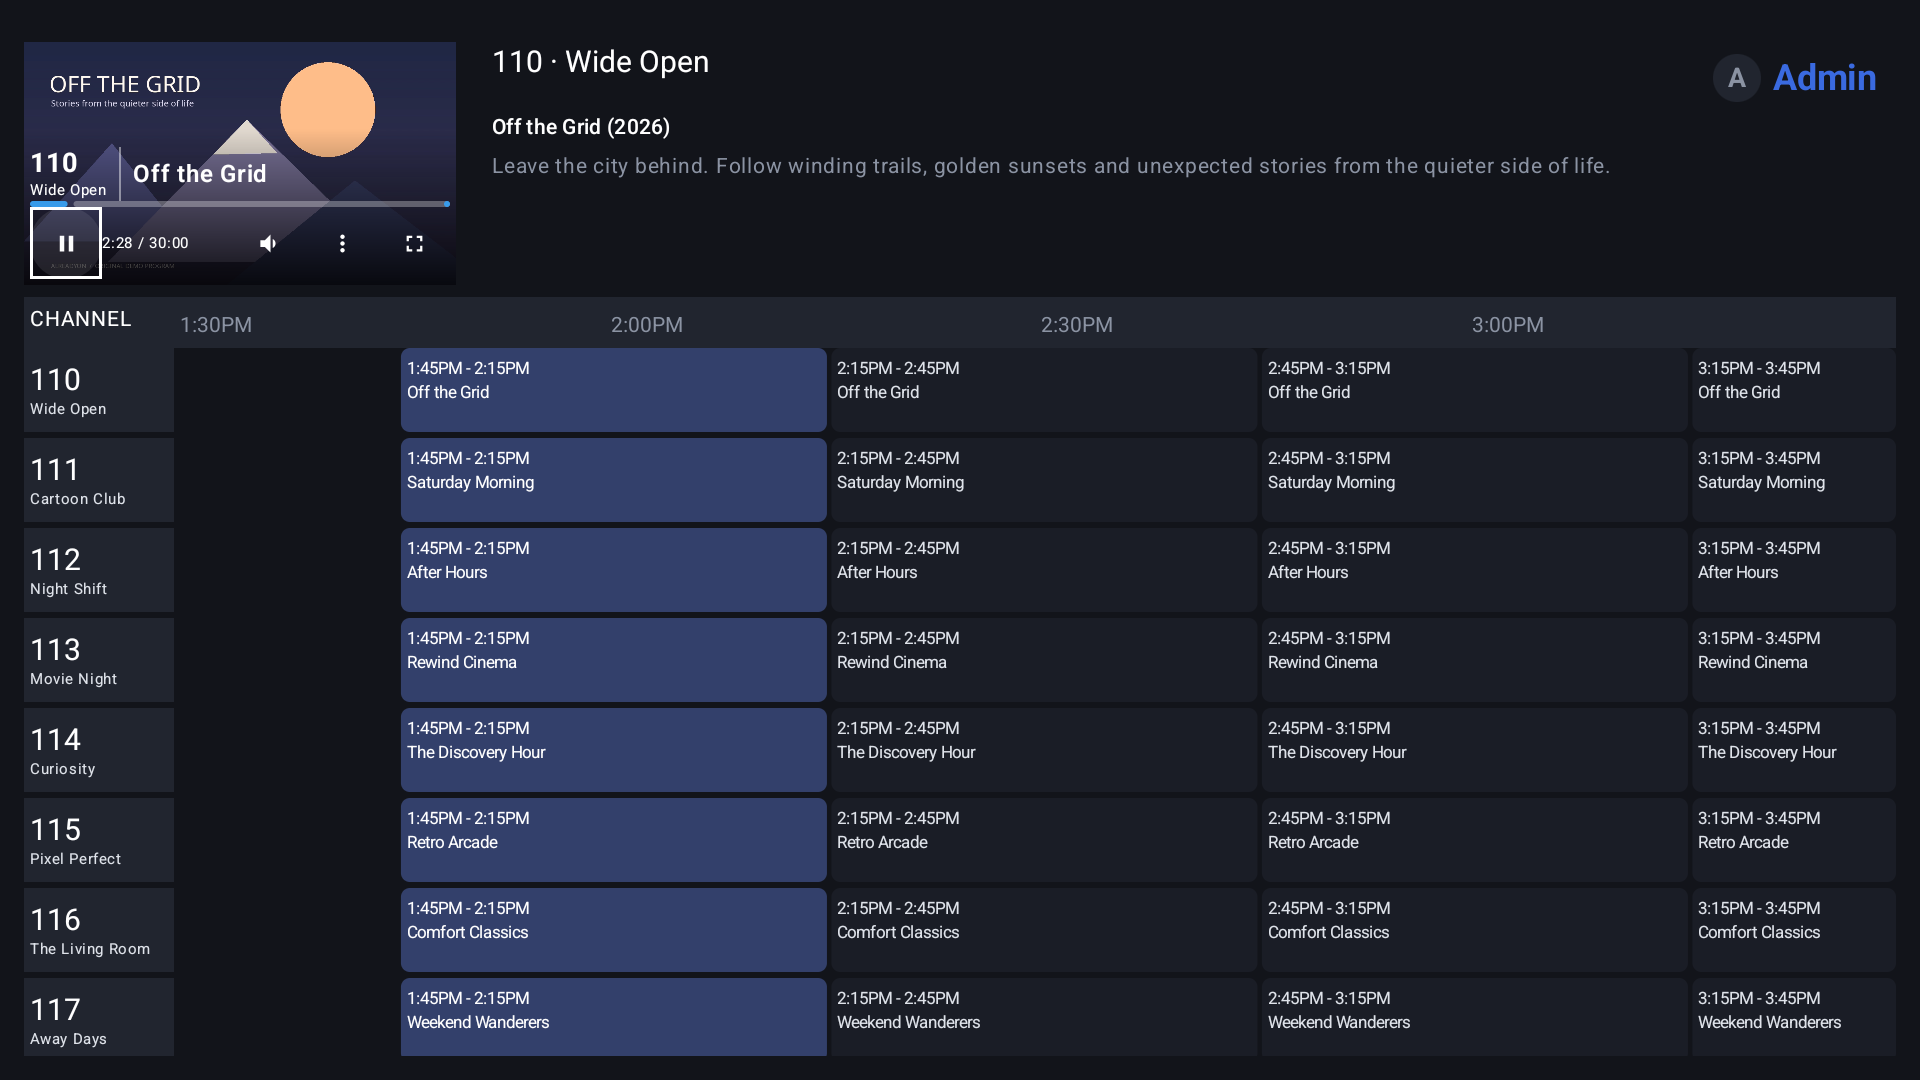
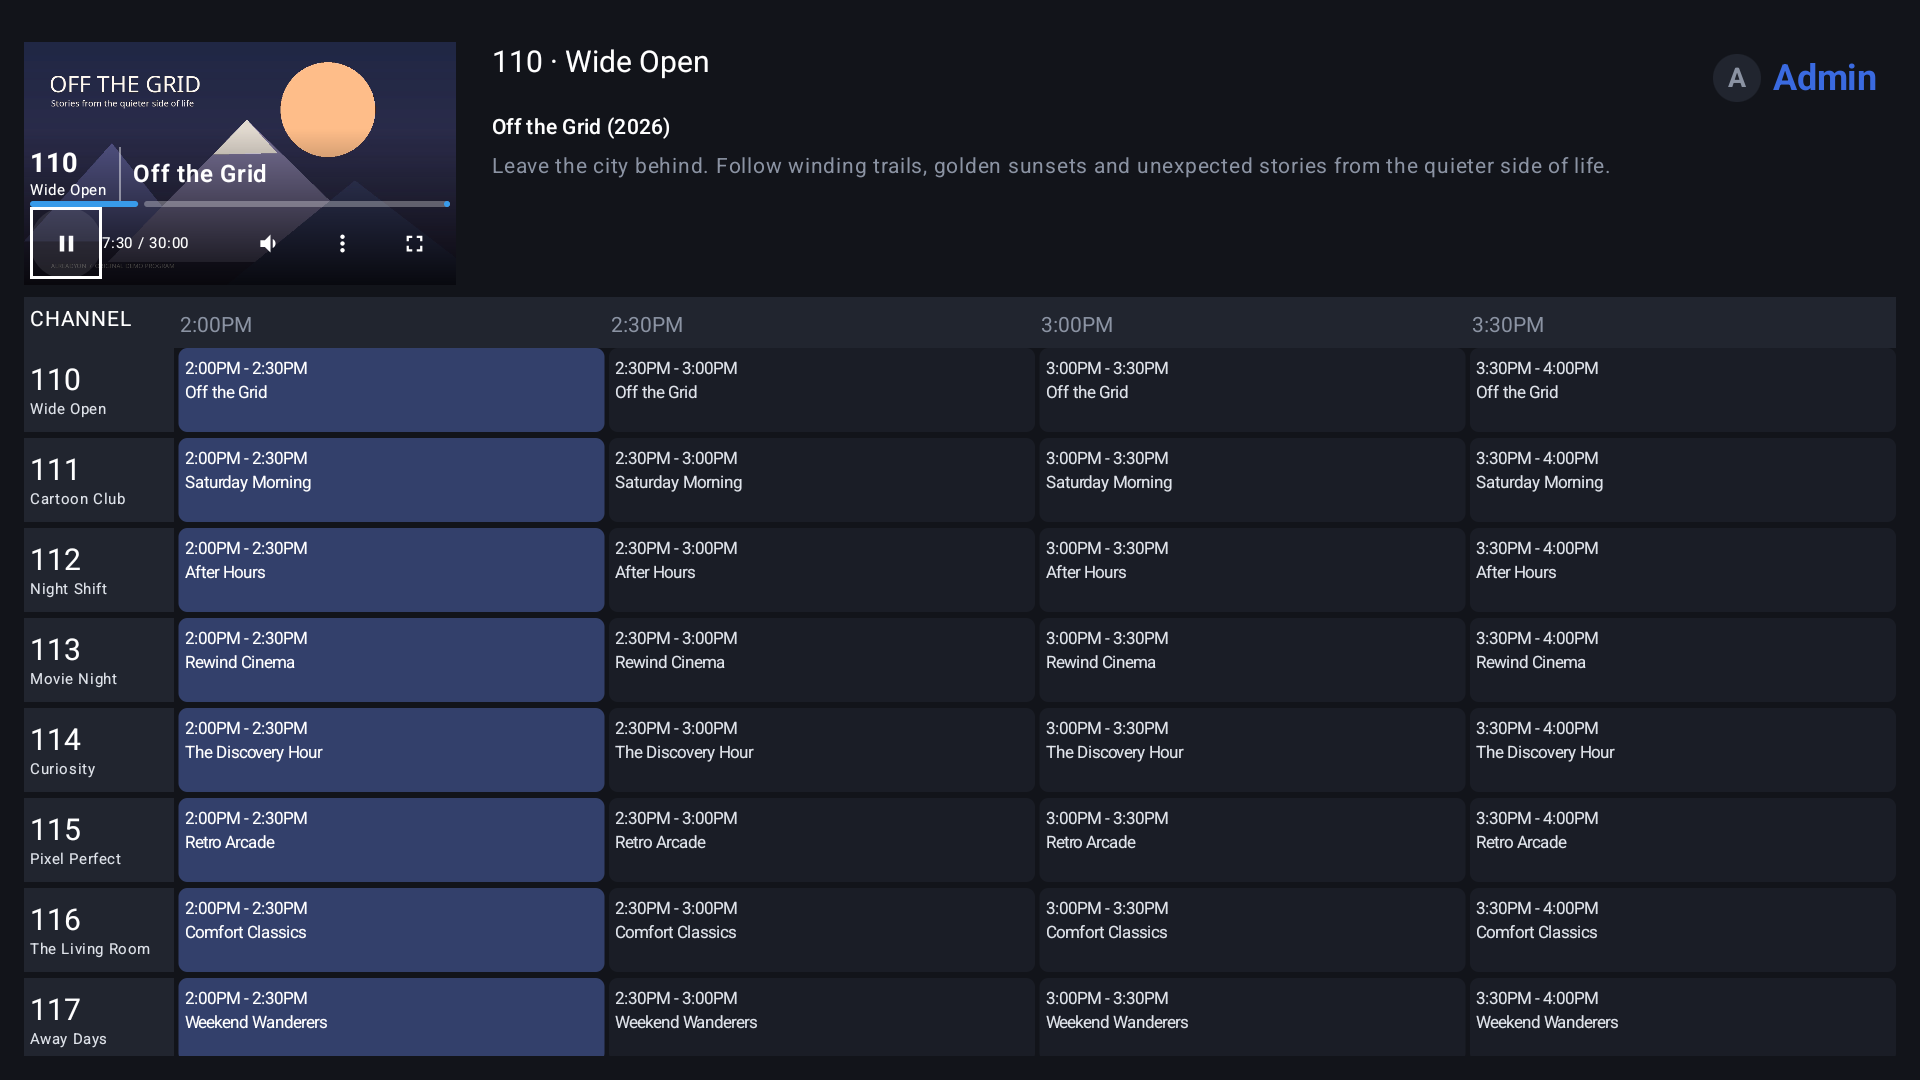
Fill first timeslot in product website screenshots

diff --git a/website/assets/screenshots/README.md b/website/assets/screenshots/README.md
@@ -9,3 +9,9 @@ Captured on October 13, 2026 from the actual AlreadyOn interfaces for the produc
 All captures use an isolated disposable HTTPS server and SQLite database. The eight demo channels, program names, metadata and mountain illustration are original synthetic content. The illustration was drawn in code and encoded as a silent video for real playback. No commercial program artwork, downloaded media, live accounts, credentials, personal library information or workstation paths appear in these images. The product UI has not been generated, recreated or composited. Presentation framing and gloss belong to the website CSS.
 
 The native APKs were built with `:app:assembleDebug :tv:assembleDebug`; both succeeded. Screenshots demonstrate the interfaces, not physical-device release acceptance or the full release validation suite. Emulator app data was cleared only on the explicitly selected disposable capture emulators, and owned emulators and the fixture server were stopped after capture.
+
+## Guide continuity for future captures
+
+The screenshots were recaptured with every visible channel continuously scheduled from the current rounded half-hour minus one hour through the following 26 hours. Seed slots on half-hour boundaries, with each slot's end equal to the next slot's start, and use media long enough to play through the entire slot. Do not shift the fixture schedule to capture time: doing so leaves an empty first timeslot when the guide rounds its window backwards.
+
+Before capture, verify all eight channels have a program whose start is at or before the earliest visible guide boundary and whose end is after it. The disposable SQLite schedule check confirmed 8/8 channels covering that boundary and adjacent intervals with no gaps across the full fixture window. Visually inspect the leftmost program column in each actual WebUI, phone and TV capture. The recaptured WebUI shows programs beginning at 2:00pm on every channel; native captures use the same continuous fixture. Images are direct browser/emulator screenshots, with no editing of program cells or UI.
